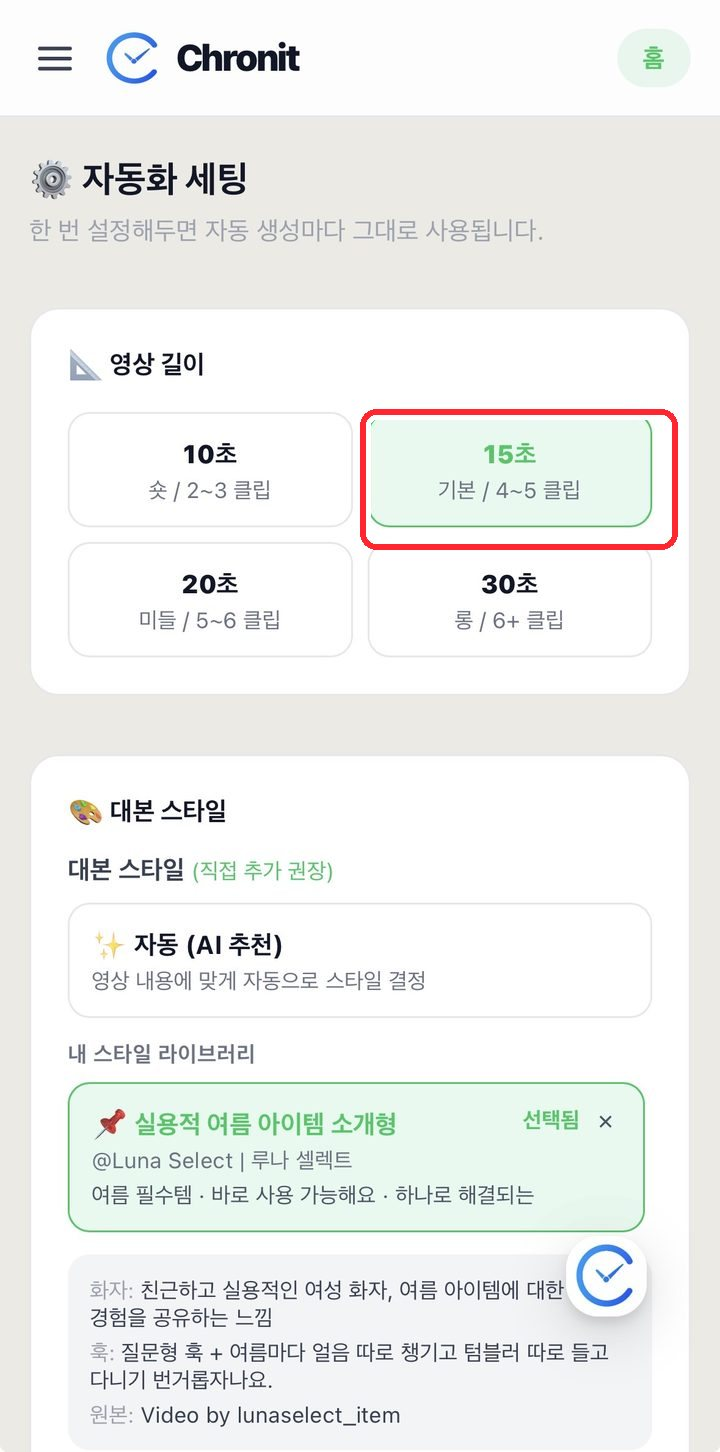
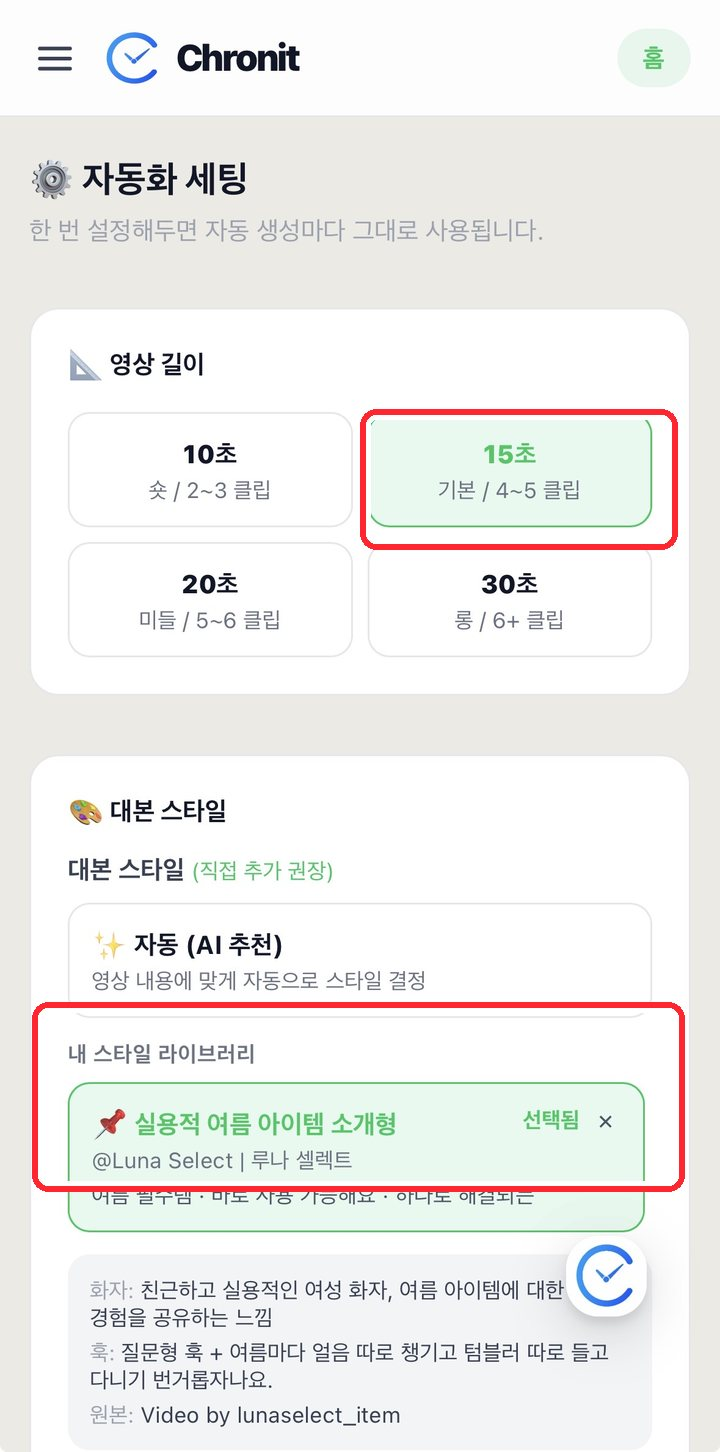
feat: 가이드 ④단계에 대본 스타일 적용 안내 + 빨간박스 추가
- 04-setup-length.jpg: 영상 길이(15초) + '내 스타일 라이브러리' 2개 박스로 재생성
- ④단계 문구를 '영상 길이 & 대본 스타일'로, ③ 스타일 찾기에서 저장한 스타일을 여기서 적용하라고 안내 + 모르면 자동(AI추천) note

Changed region(s): [[0.0306, 0.6818, 0.9778, 0.8368]]

diff --git a/src/pages/ManualDetail.jsx b/src/pages/ManualDetail.jsx
@@ -114,7 +114,7 @@ const GUIDE_STEPS = [
   { img: '/guide/01-open.jpg', title: '① 영상 만드는 화면 열기', desc: "홈에서 **무료로 영상 만들기**를 누르면 이 화면이 나와요. 왼쪽 위 **☰ 메뉴**를 눌러보세요." },
   { img: '/guide/02-menu.jpg', title: '② 메뉴에서 [스타일 찾기]·[자동화 세팅] 찾기', desc: "메뉴를 열면 **스타일 찾기**와 **자동화 세팅**이 여기 있어요. 이 두 가지만 처음에 한 번 해두면 끝이에요." },
   { img: '/guide/03-style.jpg', title: '③ 스타일 찾기 — 따라 할 영상 등록', desc: "따라 하고 싶은 영상(인스타·틱톡 등) 링크를 넣고 **분석 시작**을 누르면, 그 영상의 말투·구성이 내 스타일로 저장돼요." },
-  { img: '/guide/04-setup-length.jpg', title: '④ 자동화 세팅 — 영상 길이', desc: "만들 영상의 **길이**를 골라요. 잘 모르겠으면 **15초(기본)** 추천!" },
+  { img: '/guide/04-setup-length.jpg', title: '④ 자동화 세팅 — 영상 길이 & 대본 스타일', desc: "위에서 **영상 길이**를 골라요(잘 모르면 **15초 기본**). 그리고 아래 **대본 스타일**에서 ③ 스타일 찾기로 저장한 **내 스타일**을 골라 적용하면, 그 말투·구성으로 대본이 만들어져요.", note: "아직 저장한 스타일이 없거나 잘 모르겠으면 **자동(AI 추천)** 그대로 둬도 괜찮아요." },
   { img: '/guide/05-setup-voice.jpg', title: '⑤ 자동화 세팅 — 목소리', desc: "영상에 들어갈 **목소리**를 골라요. **미리듣기**로 들어볼 수 있어요." },
   { img: '/guide/06-setup-subtitle.jpg', title: '⑥ 자동화 세팅 — 자막·썸네일', desc: "자막 모양(글씨·색·크기)을 정해요. **기본값 그대로 둬도** 예쁘게 나와요." },
   { group: '영상 만들 때마다 — 이것만 반복!', once: false },